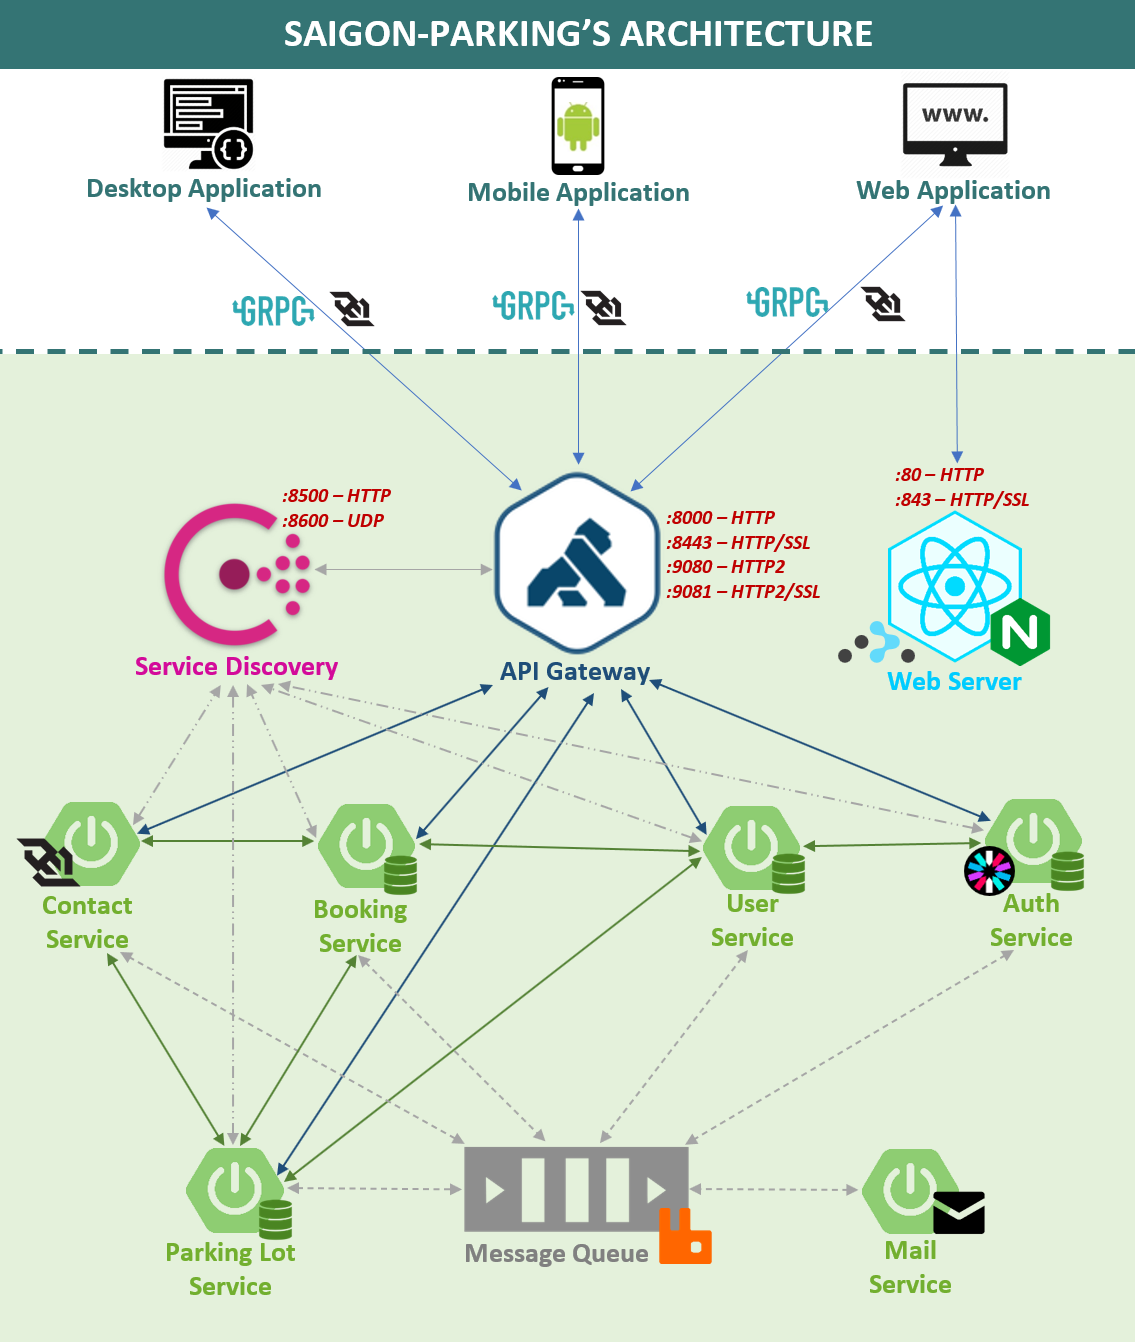
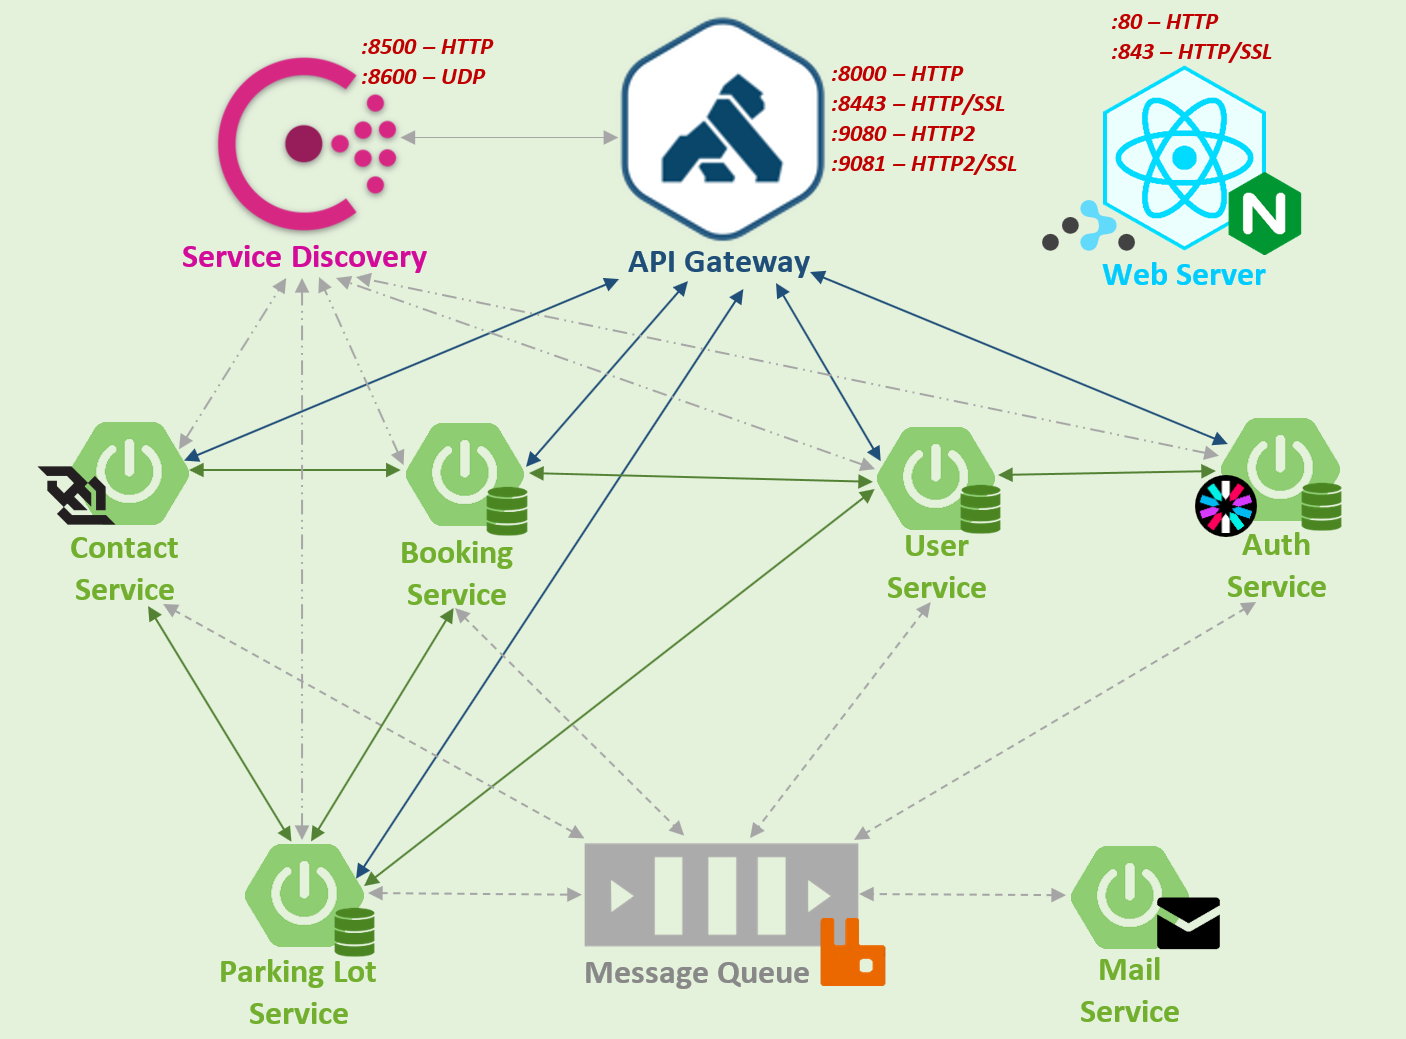
[SERVER] update documents + workflows + README.md

diff --git a/README.md b/README.md
@@ -9,12 +9,19 @@
                    __/ |                                                     __/ |
                   |___/                                                     |___/   v2.3.6 - ©Copyright 2020
 </pre>
-#Project's members:
+[![saigonparking-master Actions Status](https://github.com/huynhthanhbinh/saigonparking/workflows/saigonparking-master/badge.svg)](https://github.com/huynhthanhbinh/saigonparking/actions)
+
+<h2>1. Project's members:</h2>
 <h6>1. 1653005 - Vu Tuong Bach - 1653005@student.hcmus.edu.vn</h6>
 <h6>2. 1653006 - Huynh Thanh Binh - 1653006@student.hcmus.edu.vn</h6>
 <h6>3. 1653012 - Pham Viet Minh Dao - 1653012@student.hcmus.edu.vn</h6>
 <h6>4. 1653020 - Vu Hai - 1653020@student.hcmus.edu.vn</h6>
 <h6>5. 1653076 - Dang Duc Tai - 1653076@student.hcmus.edu.vn</h6>
-<br/>
+<br/><br/>
 
+<h2>2. Project's architecture:</h2>
 ![](documents/architecture.png)
+<br/><br/>
+
+<h2>3. Project's workflow:</h2>
+![](documents/workflow.png)
